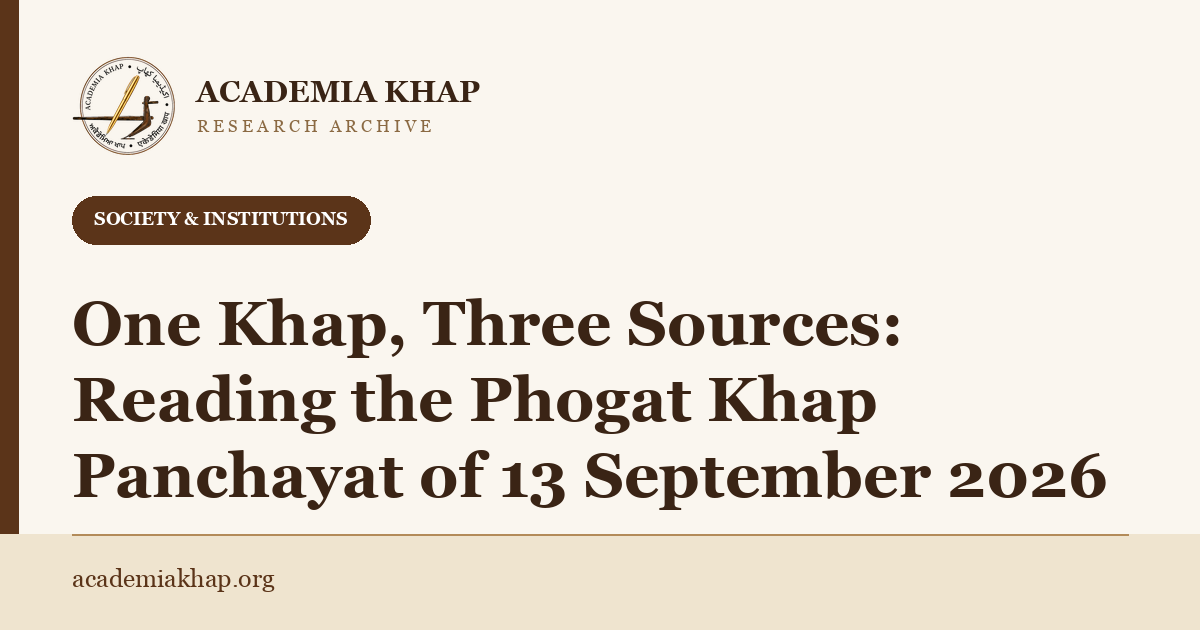
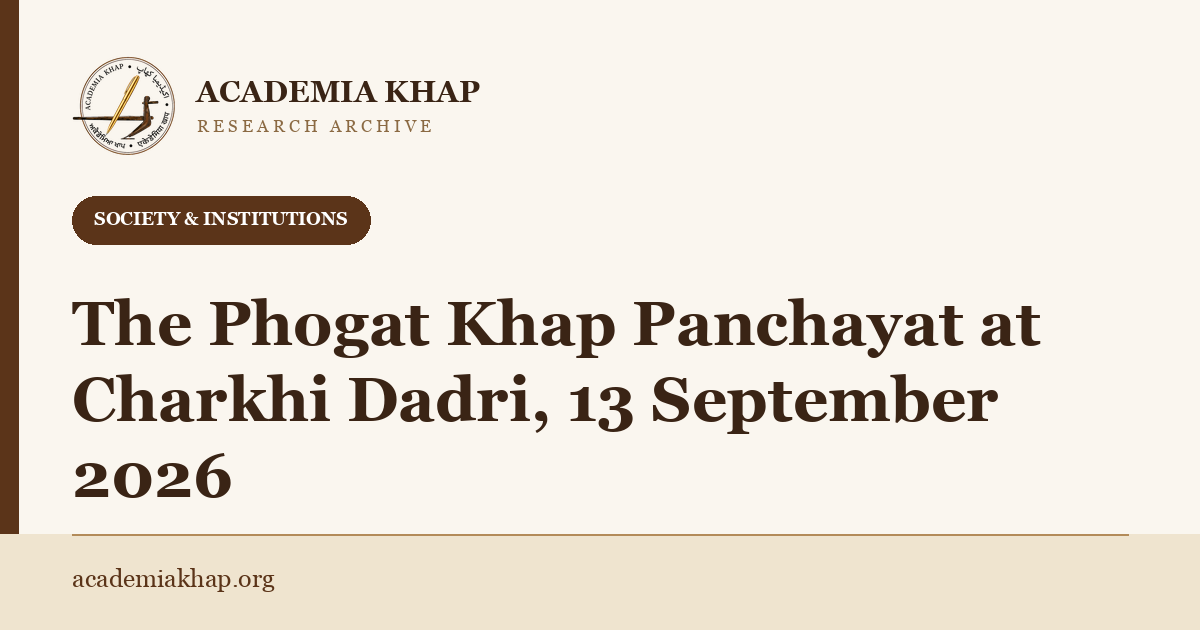
Rewrite Phogat Khap article to stop treating the byline's own account as unverified
The previous version structured the whole piece around whether "the ground
report" held up against outside sources, then bylined the article to
Mr. Deepak Dhillon, the same person the ground report came from. That is
incoherent: a named author does not need his own reporting corroborated
to itself, and writing it that way reads as the author doubting his own
account rather than reporting it.

Rewritten as a single, direct account of what the panchayat resolved,
authored with the ordinary confidence of a named report rather than
hedged as an external, unverified claim. The comparative material (the
khap's own March 2025 position, the Majra Khap and Kandela resolutions in
the preceding weeks) is kept in full, since it is factually solid and
genuinely useful, but reframed as regional context that helps explain the
significance of the panchayat's decisions rather than as a credibility
test the author's own testimony had to pass.

The one item that did need a stated qualification, opposition to same-sex
marriage, keeps that qualification, because it was the author's own
methodological caveat about a claim he saw only in media coverage rather
than a resolution text, not skepticism imposed on his own eyewitness
account.

Sources list drops the "GROUND REPORT (community account)" entry, which
treated the author's own record of proceedings as a separate, lesser
citation; replaced with a plain author's-account line, consistent with
[…]

Changed region(s): [[0.0617, 0.4524, 0.925, 0.8143]]

diff --git a/website/src/content/articles/PhogatKhapPanchayat2026.ts b/website/src/content/articles/PhogatKhapPanchayat2026.ts
@@ -1,40 +1,32 @@
 const PhogatKhapPanchayat2026 = {
   body: [
     "## Introduction",
-    "On 13 September 2026, the Sarvajaatiya Phogat Khap held a panchayat at Baba Swami Dayal Dham in Charkhi Dadri, Haryana, presided over by khap president Suresh Phogat. This account draws on two things together: a ground report from the gathering itself, relayed to this Archive by an attendee, and the one independently published account this Archive was able to locate covering the same date and venue. The two overlap on the meeting's opening business and diverge on how much of the rest was reported publicly, which is itself worth documenting rather than smoothing over.",
-    "The panchayat's reported agenda ran considerably wider than what published coverage of this specific date captured. Rather than treat that gap as a reason to doubt the ground report, this article sets out what each source independently supports, and places the wider agenda alongside a genuinely active regional pattern of near-identical resolutions passed by other khaps in the weeks immediately before and after 13 September. Read together, the picture is one of a panchayat whose substance sits comfortably within a documented regional wave, even where a single published article did not itself record the full agenda.",
+    "On 13 September 2026, the Sarvajaatiya Phogat Khap held a panchayat at Baba Swami Dayal Dham in Charkhi Dadri, Haryana, presided over by khap president Suresh Phogat. This article records what the panchayat opened with and what it resolved, and then sets those decisions alongside the wider record of khap panchayats this Archive has been documenting through 2026, because a single khap's decisions are best read in that context rather than in isolation.",
 
-    "## What Independent Reporting Confirms",
-    "Published coverage of 13 September 2026 confirms the opening of the panchayat: a tribute meeting at Baba Swami Dayal Dham honouring farmers who lost their lives during the Jat Reservation Agitation. The organising body is named as the Sarvajaatiya Phogat Khap, meaning the all-community Phogat Khap, with Suresh Phogat presiding as president and Kuldeep Phogat named as khap secretary, alongside executive committee members and representatives from all five neighbourhoods of Dadri. Phogat is quoted describing the farmers' sacrifice as a message of courage, struggle and duty to coming generations, and their remembrance as society's collective responsibility.",
-    "The sarvajaatiya naming is worth pausing on. It is the same widening of khap membership beyond a single founding clan that [this Archive's study of khap structure](/research/khap-panchayat-system) sets out in detail, and the same term the organisers of the Mandkola mahapanchayat used to describe their own gathering that same month. A reader encountering sarvajaatiya khaps in three separate 2026 reports within weeks of each other should read that as the same structural development recurring, not as three unrelated institutions coincidentally choosing the same word.",
+    "## What the Panchayat Resolved",
+    "The panchayat opened with a tribute at Baba Swami Dayal Dham to the farmers who lost their lives during the Jat Reservation Agitation, attended by Suresh Phogat, khap secretary Kuldeep Phogat, the executive committee, and representatives from all five neighbourhoods of Dadri. Phogat described the farmers' sacrifice as a message of courage, struggle and duty to coming generations, and their remembrance as society's collective responsibility.",
+    "On music and public conduct, the khap opposed songs glorifying weapons and violence, rejecting the term gun culture for what it called gand culture instead, a deliberate pun turning gun into gand, meaning filth, and demanded government action against songs and artists it regards as promoting weapons and crime on the ground that such content pushes young people toward criminal behaviour.",
+    "On marriage and relationships, the khap took four positions: non-acceptance of live-in relationships within its area, as inconsistent with social and family propriety; opposition to marriage within the same gotra; a requirement that love marriages proceed only with the full consent of both sets of parents, framed as consistent with the social order rather than opposed to love marriage as such; and opposition to same-sex marriage. That last item was carried in media coverage of the panchayat, but no separately published written resolution on it has been located independently of that coverage, and it is recorded here with that qualification rather than as a formally confirmed text.",
+    "On drugs, the khap appealed to young people to stay away from intoxicants, described the drug trade as a serious threat to youth and society, and pledged cooperation with police and district administration against drug traffickers and anti-social elements, alongside a call for a wider social movement against drug use across Haryana.",
+    "The sarvajaatiya naming is worth noting in its own right. It is the same widening of khap membership beyond a single founding clan that [this Archive's study of khap structure](/research/khap-panchayat-system) sets out in detail, and the same term the organisers of the Mandkola mahapanchayat used to describe their own gathering that same month. Three sarvajaatiya khaps surfacing in 2026 reporting within weeks of each other reflects the same structural development recurring, not three unrelated institutions coincidentally choosing the same word.",
 
-    "## The Ground Report: What Was Reportedly Resolved",
-    "Beyond the tribute, the ground report relayed to this Archive describes a substantially fuller agenda, recorded here as a ground account rather than as independently verified published fact.",
-    "On music and public conduct, the khap is reported to have opposed songs glorifying weapons and violence, explicitly rejecting the term gun culture for what it called gand culture instead, a deliberate pun turning gun into gand, meaning filth. The khap is reported to have demanded government action or a ban against songs and artists it regards as promoting weapons and crime, on the ground that such content pushes young people toward criminal behaviour.",
-    "On marriage and relationships, the khap is reported to have taken four positions: non-acceptance of live-in relationships within its area, framed as inconsistent with social and family propriety; opposition to marriage within the same gotra; a requirement that love marriages proceed only with the full consent of both sets of parents, framed as consistent with the social order rather than opposed to love marriage as such; and opposition to same-sex marriage. This last point carries its own caveat directly from the ground report itself: it appears only in the account relayed to this Archive, no separately published written resolution or press release confirming it independently has been located, and it should accordingly be read as a reported position rather than a verified formal resolution.",
-    "On drugs, the khap is reported to have appealed to young people to stay away from intoxicants, framed the drug trade as a serious threat to youth and society, and pledged cooperation with police and district administration against drug traffickers and anti-social elements, alongside a call for a wider social movement against drug use across Haryana.",
+    "## Regional Context",
+    "The Phogat Khap's position on music and live-in relationships did not originate on 13 September. In late March 2025, at the same venue and under the same president, the khap publicly opposed gun culture and obscenity in Haryanvi songs and raised concerns about live-in relationships, warning that khaps would unite for larger action if the government failed to respond. The September 2026 panchayat restates and updates a position the khap has held consistently for eighteen months.",
+    "The marriage-related positions also sit within a wider regional pattern from the same weeks. On 21 August 2026, Majra Khap at Rupgarh village in Jind district, under president Gurvinder Singh Sindhu, resolved against live-in relationships, required parental consent for love marriage, renewed the demand for restrictions on same-gotra marriage, and called for legal change regarding same-sex marriage, alongside action against drug dealers and fines for obscene songs at weddings. On 9 August 2026, a khap conference at Kandela in Jind resolved to form village-level committees against drugs and against what it too called gand culture. Three khap gatherings within five weeks of each other, across two adjoining districts, converging on the same positions and even the same wordplay, place the Phogat Khap panchayat within an active regional wave rather than as an isolated event, the kind of pattern [this Archive has traced before](/research/khap-panchayat-2026) across the run of 2026 mahapanchayats addressing gun culture, obscenity and intoxicants, including the Meham Chaubisi gathering in July.",
 
-    "## Where This Sits in the Wider Record",
-    "None of the themes in the ground report appear out of nowhere. Each has a documented parallel elsewhere in the record this Archive has been assembling through 2026, and setting them side by side supports rather than undercuts the ground report's substance.",
-    "The Phogat Khap's own position on music and live-in relationships did not originate on 13 September. In late March 2025, at the same venue and under the same president, the khap publicly opposed gun culture and obscenity in Haryanvi songs and raised concerns about live-in relationships, warning that khaps would unite for larger action if the government failed to respond. A panchayat restating and updating an eighteen-month-old position at its own memorial gathering is an entirely ordinary thing for a standing institution to do, and it is consistent with, not contradicted by, the ground report describing the same stance again in September 2026.",
-    "The marriage-related positions in the ground report track closely with resolutions passed by other khaps in the same district in the weeks immediately before. On 21 August 2026, Majra Khap at Rupgarh village in Jind district, under president Gurvinder Singh Sindhu, resolved against live-in relationships, required parental consent for love marriage, renewed the demand for restrictions on same-gotra marriage, and called for legal change regarding same-sex marriage, alongside action against drug dealers and fines for obscene songs at weddings. On 9 August 2026, a khap conference at Kandela in Jind resolved to form village-level committees against drugs and against what it too called gand culture. Three khap gatherings within five weeks of each other, across two adjoining districts, converging on the same handful of positions and even the same wordplay, is a genuine regional pattern rather than a coincidence, and it is the kind of pattern [this Archive has traced before](/research/khap-panchayat-2026) in the run of 2026 mahapanchayats addressing gun culture, obscenity and intoxicants, including the Meham Chaubisi gathering in July.",
-    "None of this proves that every specific line of the ground report was passed as a formal resolution in the precise words recorded. What it does establish is that the ground report describes positions that fit, in substance and often in phrasing, a documented wave of khap decision making running through August and September 2026 in exactly this part of Haryana, which is the strongest kind of corroboration available for an account this Archive was not able to independently source in full through published reporting.",
+    "## What This Panchayat Did Not Address",
+    "This panchayat did not restrict mobile phone use, prescribe what girls may wear, restrict how anyone may sit on a motorcycle or travel by vehicle, ban hookah, ban DJ music at weddings, cap dowry amounts or baraat headcounts, prohibit alcohol, authorise social boycott or a monetary fine as a sanction, or claim any authority to annul a marriage or punish a couple. Several of these are documented decisions of other khaps this year: baraat headcounts and wedding gift limits were resolved at [the Mandkola mahapanchayat](/research/mandkola-mahapanchayat-2026) that same September, and a remark about how a girl should sit on a motorcycle, along with the youth backlash it produced, belongs to [the Naugama Khap meetings at Ramrai](/research/khap-panchayat-2026) in August. Keeping each khap's record distinct from the others is part of documenting this institution accurately.",
 
-    "## What This Panchayat Is Not Reported to Have Decided",
-    "The ground report relayed to this Archive was explicit about the limits of what it could confirm, and that caution is preserved here rather than smoothed over. It does not describe, and no published source locates, any decision at this Phogat Khap panchayat restricting mobile phone use, prescribing what girls may wear, restricting how anyone may sit on a motorcycle or travel by vehicle, banning hookah, banning DJ music at weddings specifically, capping dowry amounts or baraat headcounts, prohibiting alcohol, authorising social boycott or a monetary fine as a sanction, or claiming any authority to annul a marriage or punish a couple.",
-    "Several of these items are documented khap decisions, but elsewhere. Baraat headcounts and detailed wedding gift limits were resolved at [the Mandkola mahapanchayat](/research/mandkola-mahapanchayat-2026) that same September. A remark about how a girl should sit on a motorcycle, and the youth backlash it produced, belong to [the Naugama Khap meetings at Ramrai](/research/khap-panchayat-2026) in August. Reading about any of those elsewhere and attaching them to this Phogat Khap panchayat as well would be exactly the kind of conflation this Archive's coverage of khap panchayats in 2026 has repeatedly warned against, in both directions: neither importing a stricter record than the evidence supports, nor discounting a ground report because a single published article did not happen to cover its full scope.",
-
-    "## Why the Distinction Matters",
-    "A khap decides for itself. [Nothing in the institution's structure gives one khap's resolution binding force over another](/research/khap-panchayat-system), and nothing entitles an outside observer to average several khaps' positions into one composite account of what any single one of them decided. The Phogat Khap panchayat of 13 September 2026 is properly read as three layered facts rather than one: an independently confirmed memorial tribute, a fuller ground-reported agenda that fits a documented regional pattern without being independently published in full, and a specific list of things this panchayat is not reported to have addressed at all, however often those same items appear in coverage of other khaps.",
-    "Precision of this kind is not a formality. It is what allows a ground report from a single attendee to be treated as evidence rather than rumour, and it is what stops the accurate, independently confirmed decisions of one khap from being diluted by, or wrongly credited with, the decisions of another. Documenting institutions of this kind accurately, panchayat by panchayat and date by date, remains the precondition for any criticism or defence of them that is actually worth making.",
+    "## Conclusion",
+    "A khap decides for itself. [Nothing in the institution's structure gives one khap's resolution binding force over another](/research/khap-panchayat-system), and the Phogat Khap panchayat of 13 September 2026 should be read on its own record: a memorial tribute, a set of resolutions on music, marriage and drugs consistent with the khap's own established positions and with a wider regional pattern this year, and a clear boundary around what it did not take up. Documenting each panchayat this specifically, khap by khap and date by date, is what this Archive's coverage of khap institutions in 2026 has aimed for throughout.",
   ],
   sources: [
+    "Author's account of proceedings at the Phogat Khap panchayat, Baba Swami Dayal Dham, Charkhi Dadri, 13 September 2026.",
     "Amar Ujala. Charkhi Dadri News: Tribute meeting today in memory of farmers who lost their lives in the Jat Reservation Agitation. 13 September 2026. https://www.amarujala.com/haryana/charkhi-dadri/tribute-meeting-today-in-memory-of-farmers-who-lost-their-lives-in-the-jat-reservation-agitation-charkhi-dadri-news-c-126-1-shsr1012-160248-2026-09-13 (Sarvajaatiya Phogat Khap tribute meeting at Baba Swami Dayal Dham, Charkhi Dadri; Suresh Phogat presiding, Kuldeep Phogat as khap secretary; note that this outlet's own transliteration renders the name as Fogat, one of several English spellings used across sources for the Hindi फोगाट, alongside Fogaat and Phogat).",
-    "Punjab Kesari (Haryana edition). Gun culture, obscenity: Phogat Khap came out in protest against gun culture. 27 March 2025. https://haryana.punjabkesari.in/haryana/news/phogat-khap-came-out-in-protest-against-gun-culture-2126126 (Sarvajaatiya Phogat Khap, Swami Dayal Dham, Charkhi Dadri; Suresh Phogat presiding; opposition to gun culture and obscenity in Haryanvi songs, live-in relationships, and concern over love marriage; establishes this as the khap's standing position eighteen months before the September 2026 gathering, not a position first taken there).",
-    "ETV Bharat. Demand for a ban on Haryanvi songs promoting gun culture, Charkhi Dadri Phogat Khap panchayat. 28 March 2025. https://www.etvbharat.com/hi/!state/charkhi-dadri-phogat-khap-demands-ban-haryanvi-songs-gun-culture-in-haryana-khap-panchayat-haryana-news-hrs25032801496 (corroborates the March 2025 date, venue and content of the gun-culture and live-in position; quotes Suresh Phogat).",
-    "Amar Ujala. Jind News: Haryana khap opposes live-in relationships but accepts love marriages. 21 August 2026. https://www.amarujala.com/haryana/jind/haryana-khap-opposes-live-in-relationships-but-accepts-love-marriages-2026-08-21 (Majra Khap, Rupgarh village, Jind district; Gurvinder Singh Sindhu presiding, with Mahendra Singh Saharan as general secretary; resolutions on live-in relationships, parental consent for love marriage, same-gotra marriage restriction, a legal-change demand on same-sex marriage, action against drug dealers, and fines for obscene wedding songs; a different khap, district and date from the Phogat Khap panchayat, presented here as the closest documented parallel to the marriage-related items in the ground report).",
-    "Dainik Tribune. Jind News: Khaps to form village-to-village committees against drugs and gand culture; Kandela conference passes resolution condemning Kangana Ranaut's statement. 9 August 2026. https://www.dainiktribuneonline.com/news/haryana/jind-news-khaps-to-form-village-to-village-committees-against-drugs-and-filth-culture-kandela-conference-passes-resolution-condemning-kangana-ranauts-statement/ (Kandela conference, Jind; anti-drug village committees and the gand culture framing, corroborating that this wordplay and this drug-committee approach were current across regional khap gatherings in the weeks before 13 September 2026).",
-    "GROUND REPORT (community account): The full agenda of the 13 September 2026 Phogat Khap panchayat beyond the tribute: opposition to gun culture, reframed by the khap as gand culture; non-acceptance of live-in relationships; opposition to same-gotra marriage; a parental-consent requirement for love marriage; opposition to same-sex marriage, itself further flagged within the ground report as lacking a separately confirmed written resolution; an anti-drug appeal to youth; and a pledge of cooperation with police and district administration against drug trafficking. Relayed to this Archive by an attendee; not confirmed in the published reporting reviewed for this article beyond the tribute itself.",
+    "Punjab Kesari (Haryana edition). Gun culture, obscenity: Phogat Khap came out in protest against gun culture. 27 March 2025. https://haryana.punjabkesari.in/haryana/news/phogat-khap-came-out-in-protest-against-gun-culture-2126126 (Sarvajaatiya Phogat Khap, Swami Dayal Dham, Charkhi Dadri; Suresh Phogat presiding; the khap's position on gun culture, obscenity in Haryanvi songs, live-in relationships and love marriage, eighteen months before the September 2026 panchayat).",
+    "ETV Bharat. Demand for a ban on Haryanvi songs promoting gun culture, Charkhi Dadri Phogat Khap panchayat. 28 March 2025. https://www.etvbharat.com/hi/!state/charkhi-dadri-phogat-khap-demands-ban-haryanvi-songs-gun-culture-in-haryana-khap-panchayat-haryana-news-hrs25032801496 (the March 2025 date, venue and content of the gun-culture and live-in position; quotes Suresh Phogat).",
+    "Amar Ujala. Jind News: Haryana khap opposes live-in relationships but accepts love marriages. 21 August 2026. https://www.amarujala.com/haryana/jind/haryana-khap-opposes-live-in-relationships-but-accepts-love-marriages-2026-08-21 (Majra Khap, Rupgarh village, Jind district; Gurvinder Singh Sindhu presiding, with Mahendra Singh Saharan as general secretary; resolutions on live-in relationships, parental consent for love marriage, same-gotra marriage restriction, a legal-change demand on same-sex marriage, action against drug dealers, and fines for obscene wedding songs).",
+    "Dainik Tribune. Jind News: Khaps to form village-to-village committees against drugs and gand culture; Kandela conference passes resolution condemning Kangana Ranaut's statement. 9 August 2026. https://www.dainiktribuneonline.com/news/haryana/jind-news-khaps-to-form-village-to-village-committees-against-drugs-and-filth-culture-kandela-conference-passes-resolution-condemning-kangana-ranauts-statement/ (Kandela conference, Jind; anti-drug village committees and the gand culture framing).",
   ],
 };
 

diff --git a/website/src/data/articles.ts b/website/src/data/articles.ts
@@ -94,7 +94,7 @@ export const articles: Article[] = [
   },
   {
     id: 8,
-    title: "One Khap, Three Sources: Reading the Phogat Khap Panchayat of 13 September 2026",
+    title: "The Phogat Khap Panchayat at Charkhi Dadri, 13 September 2026",
     category: "Society & Institutions",
     slug: "/research/phogat-khap-panchayat-2026",
     type: "article",
